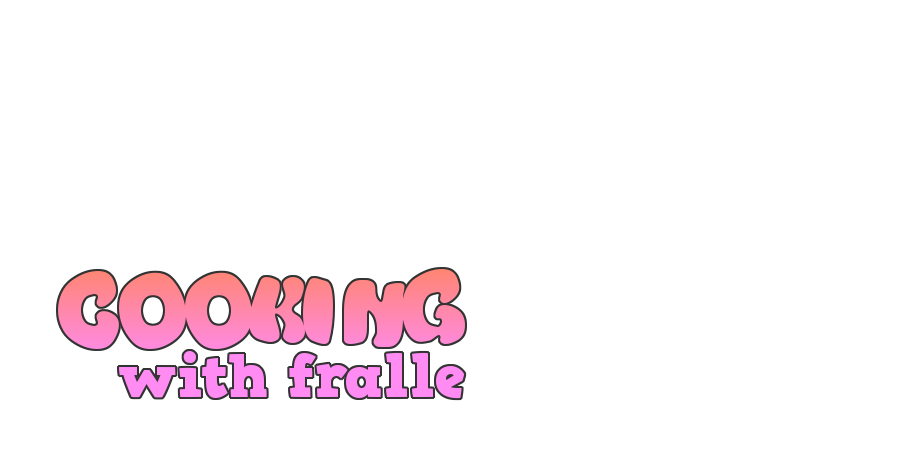
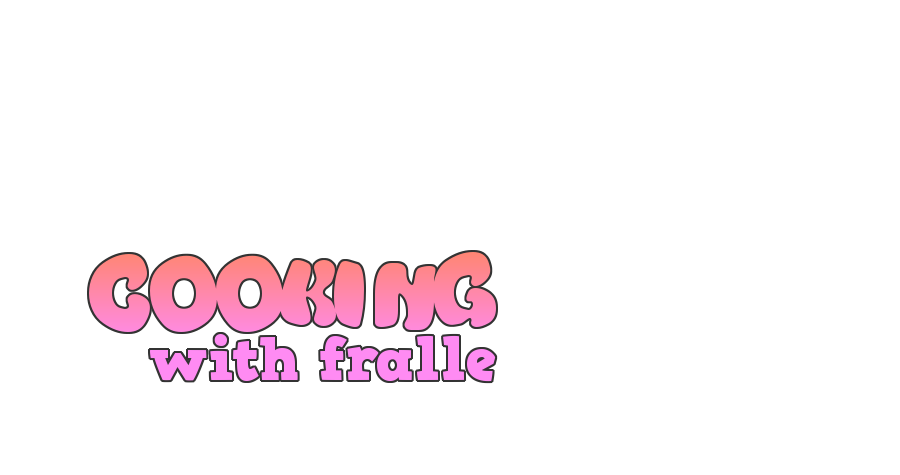
Tweak the transition values

Changed region(s): [[0.0622, 0.5305, 0.56, 0.8547]]

diff --git a/src/components/links/Link.tsx b/src/components/links/Link.tsx
@@ -29,11 +29,11 @@ const LinkComponent = styled(RouterLink)`
 
     &:hover {
       .title {
-        transform: scale(1.2) translate(4%, 0%);
+        transform: scale(1.1); 
         transition: transform 200ms var(--easeOutBack);
       }
       .foreground {
-        transform: scale(1.2) translate(-2%, -2%);
+        transform: scale(1.2);
         transition: transform 200ms 50ms var(--easeOutBack);
       }
     }
@@ -44,18 +44,8 @@ const BackgroundImage = styled.img`
   width: 100%;
   border-radius: 8px;
 `
-const TitleImage = styled.img`
-  position: absolute;
-  top: -3%;
-  left: 0;
-  width: 100%;  
-  z-index: 1;
-  transition: all 300ms ease-out;
-`
 const ForegroundImage = styled.img`
   position: absolute;
-  top: -3%;
-  left: 0;
   width: 100%;  
   transition: all 300ms ease-out;
 `
@@ -72,8 +62,8 @@ const Link: FC<LinkProps> = ({ to, backgroundImage, titleImage, foregroundImage,
   return (
     <LinkComponent to={to}>
       <BackgroundImage src={backgroundImage} />
-      <TitleImage className="title" style={foregroundImageStyle} src={titleImage} />
       <ForegroundImage className="foreground" style={foregroundImageStyle} src={foregroundImage} />
+      <ForegroundImage className="title" style={foregroundImageStyle} src={titleImage} />
     </LinkComponent>
   )
 }

diff --git a/src/components/links/Browse.tsx b/src/components/links/Browse.tsx
@@ -54,6 +54,10 @@ const Browse: FC = () => {
       <Component >
         <Wrapper>
           <Link to="cooking" backgroundImage={CookingWithFralle} titleImage={CookingWithFralleTitle} foregroundImage={CookingWithFralleForeground} />
+          <Link to="cooking" backgroundImage={CookingWithFralle} titleImage={CookingWithFralleTitle} foregroundImage={CookingWithFralleForeground} />
+          <Link to="cooking" backgroundImage={CookingWithFralle} titleImage={CookingWithFralleTitle} foregroundImage={CookingWithFralleForeground} />
+          <Link to="cooking" backgroundImage={CookingWithFralle} titleImage={CookingWithFralleTitle} foregroundImage={CookingWithFralleForeground} />
+          <Link to="cooking" backgroundImage={CookingWithFralle} titleImage={CookingWithFralleTitle} foregroundImage={CookingWithFralleForeground} />
         </Wrapper>
       </Component>
       <Bottom />

diff --git a/src/components/Project.tsx b/src/components/Project.tsx
@@ -97,7 +97,7 @@ const Content = styled.section`
   height: 100vh;
 `
 
-const Description = styled.p`
+const Description = styled.div`
   max-width: 65ch;
   padding: 1rem;
   padding-left: 3rem;
